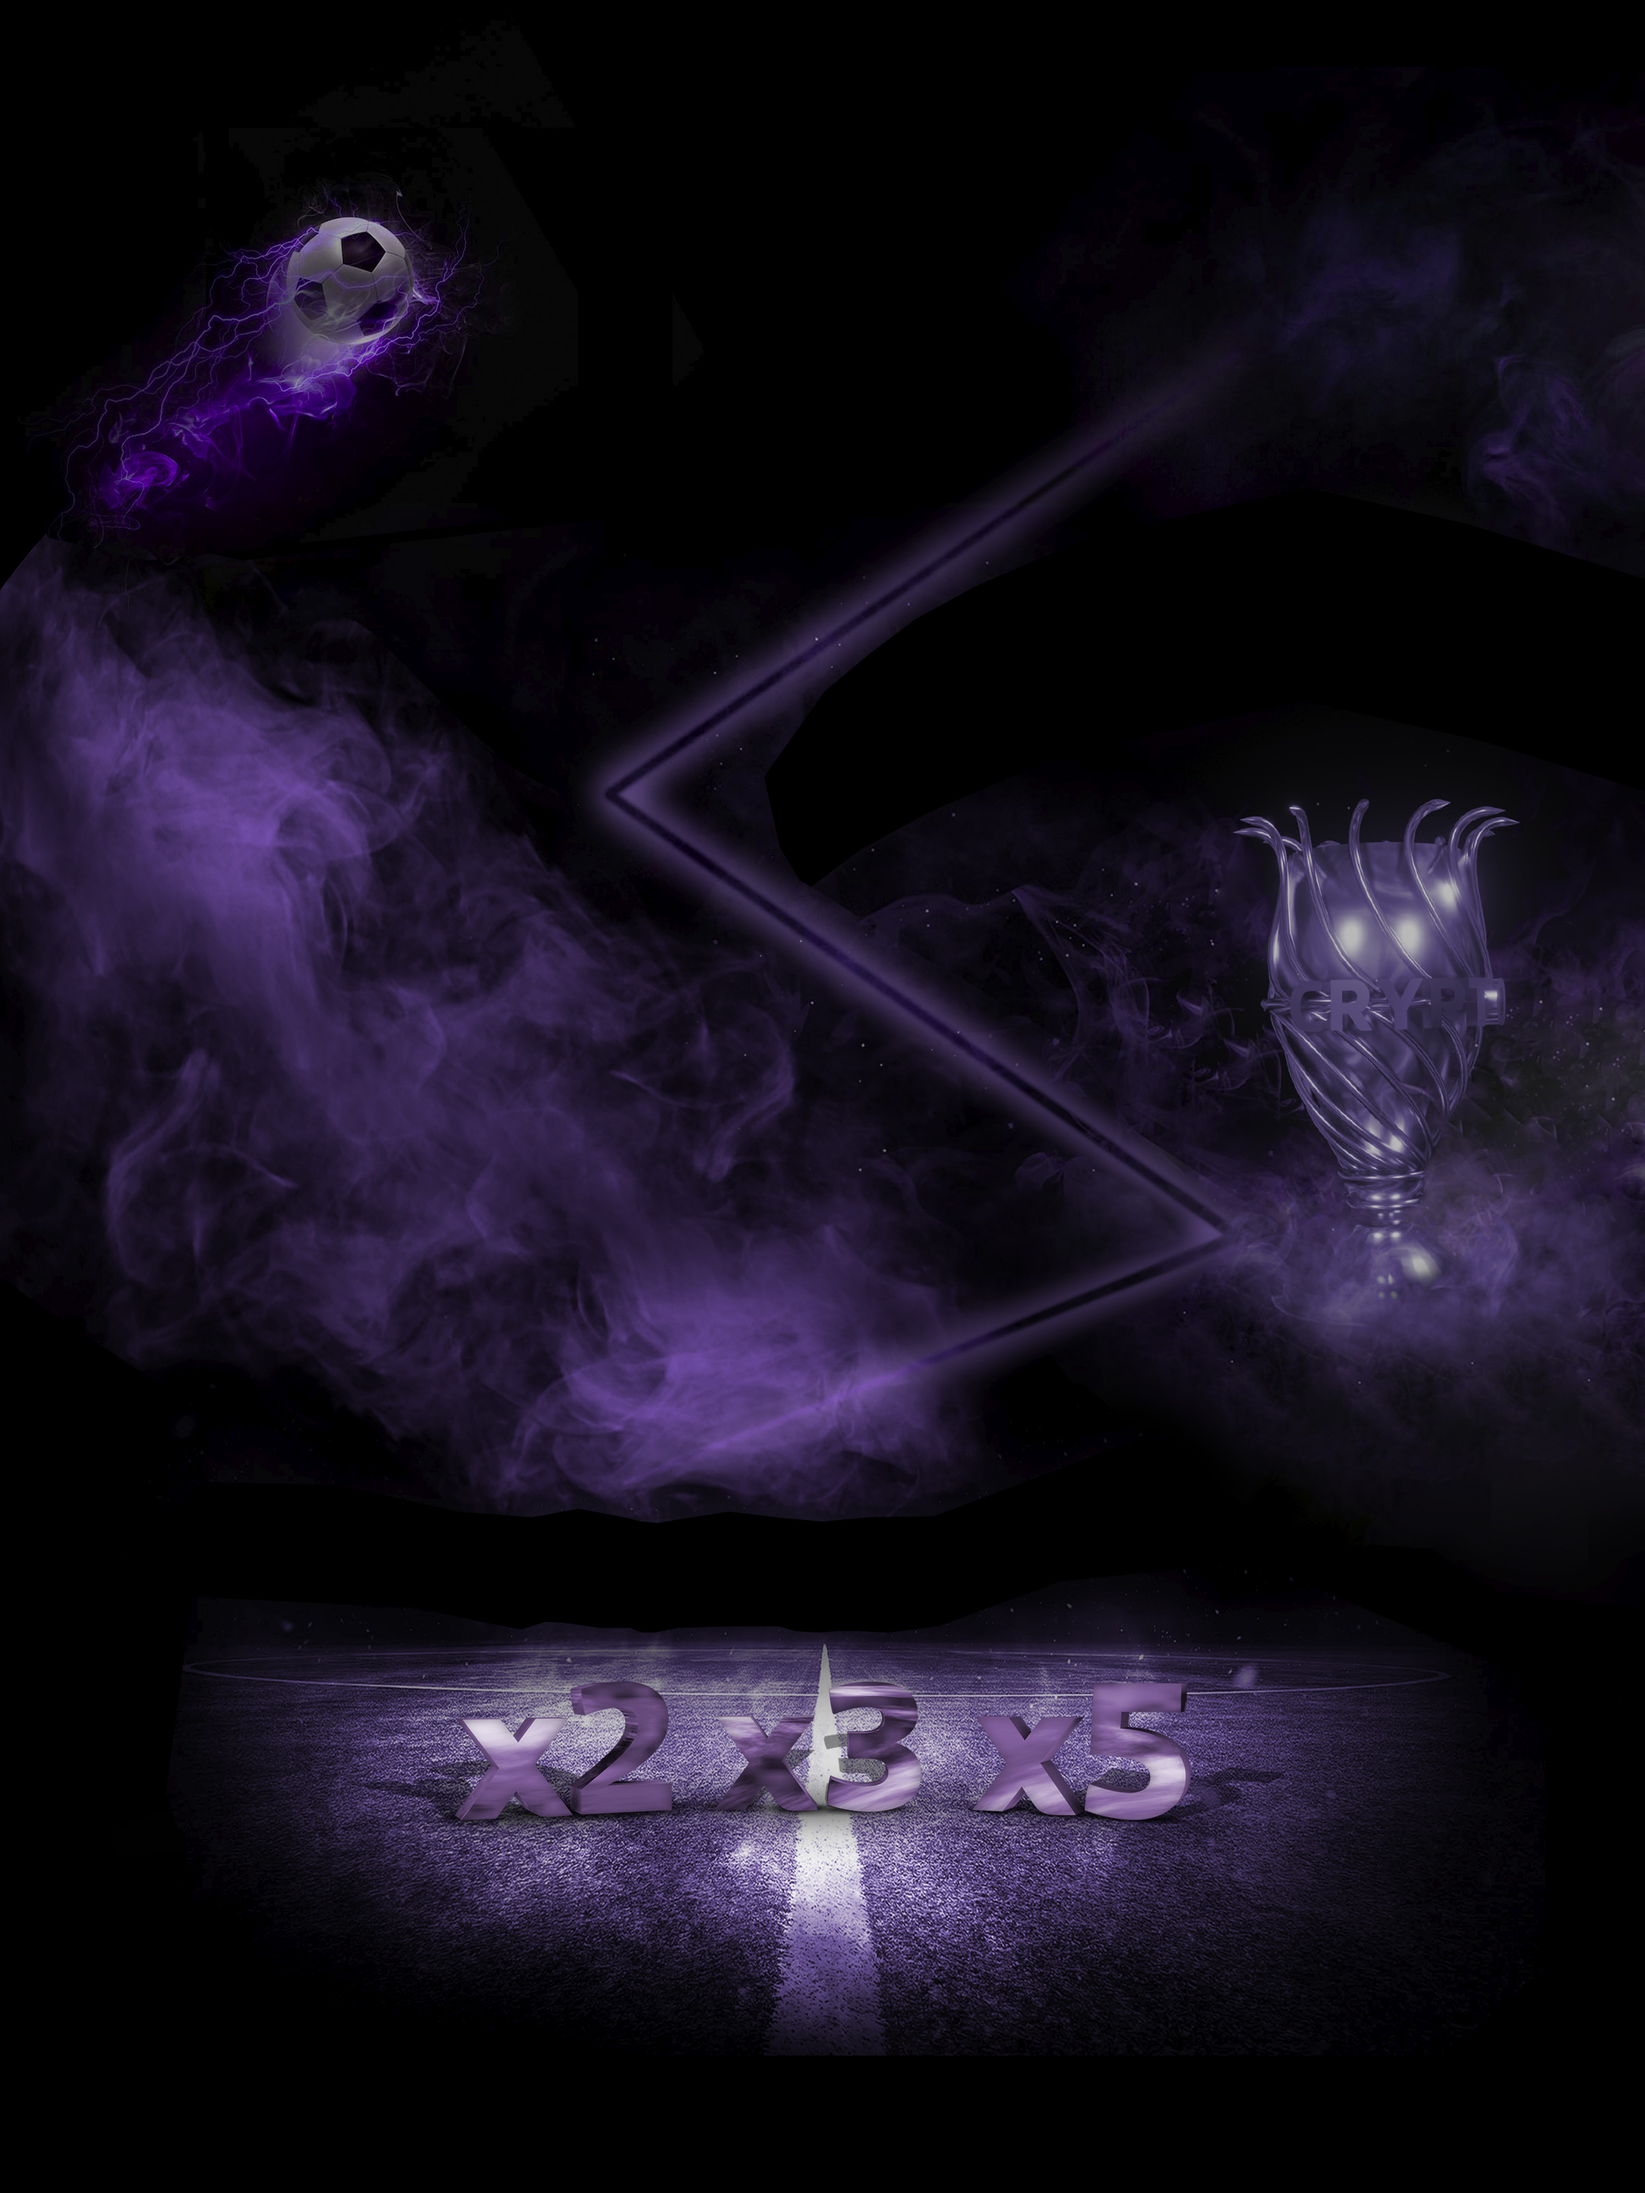
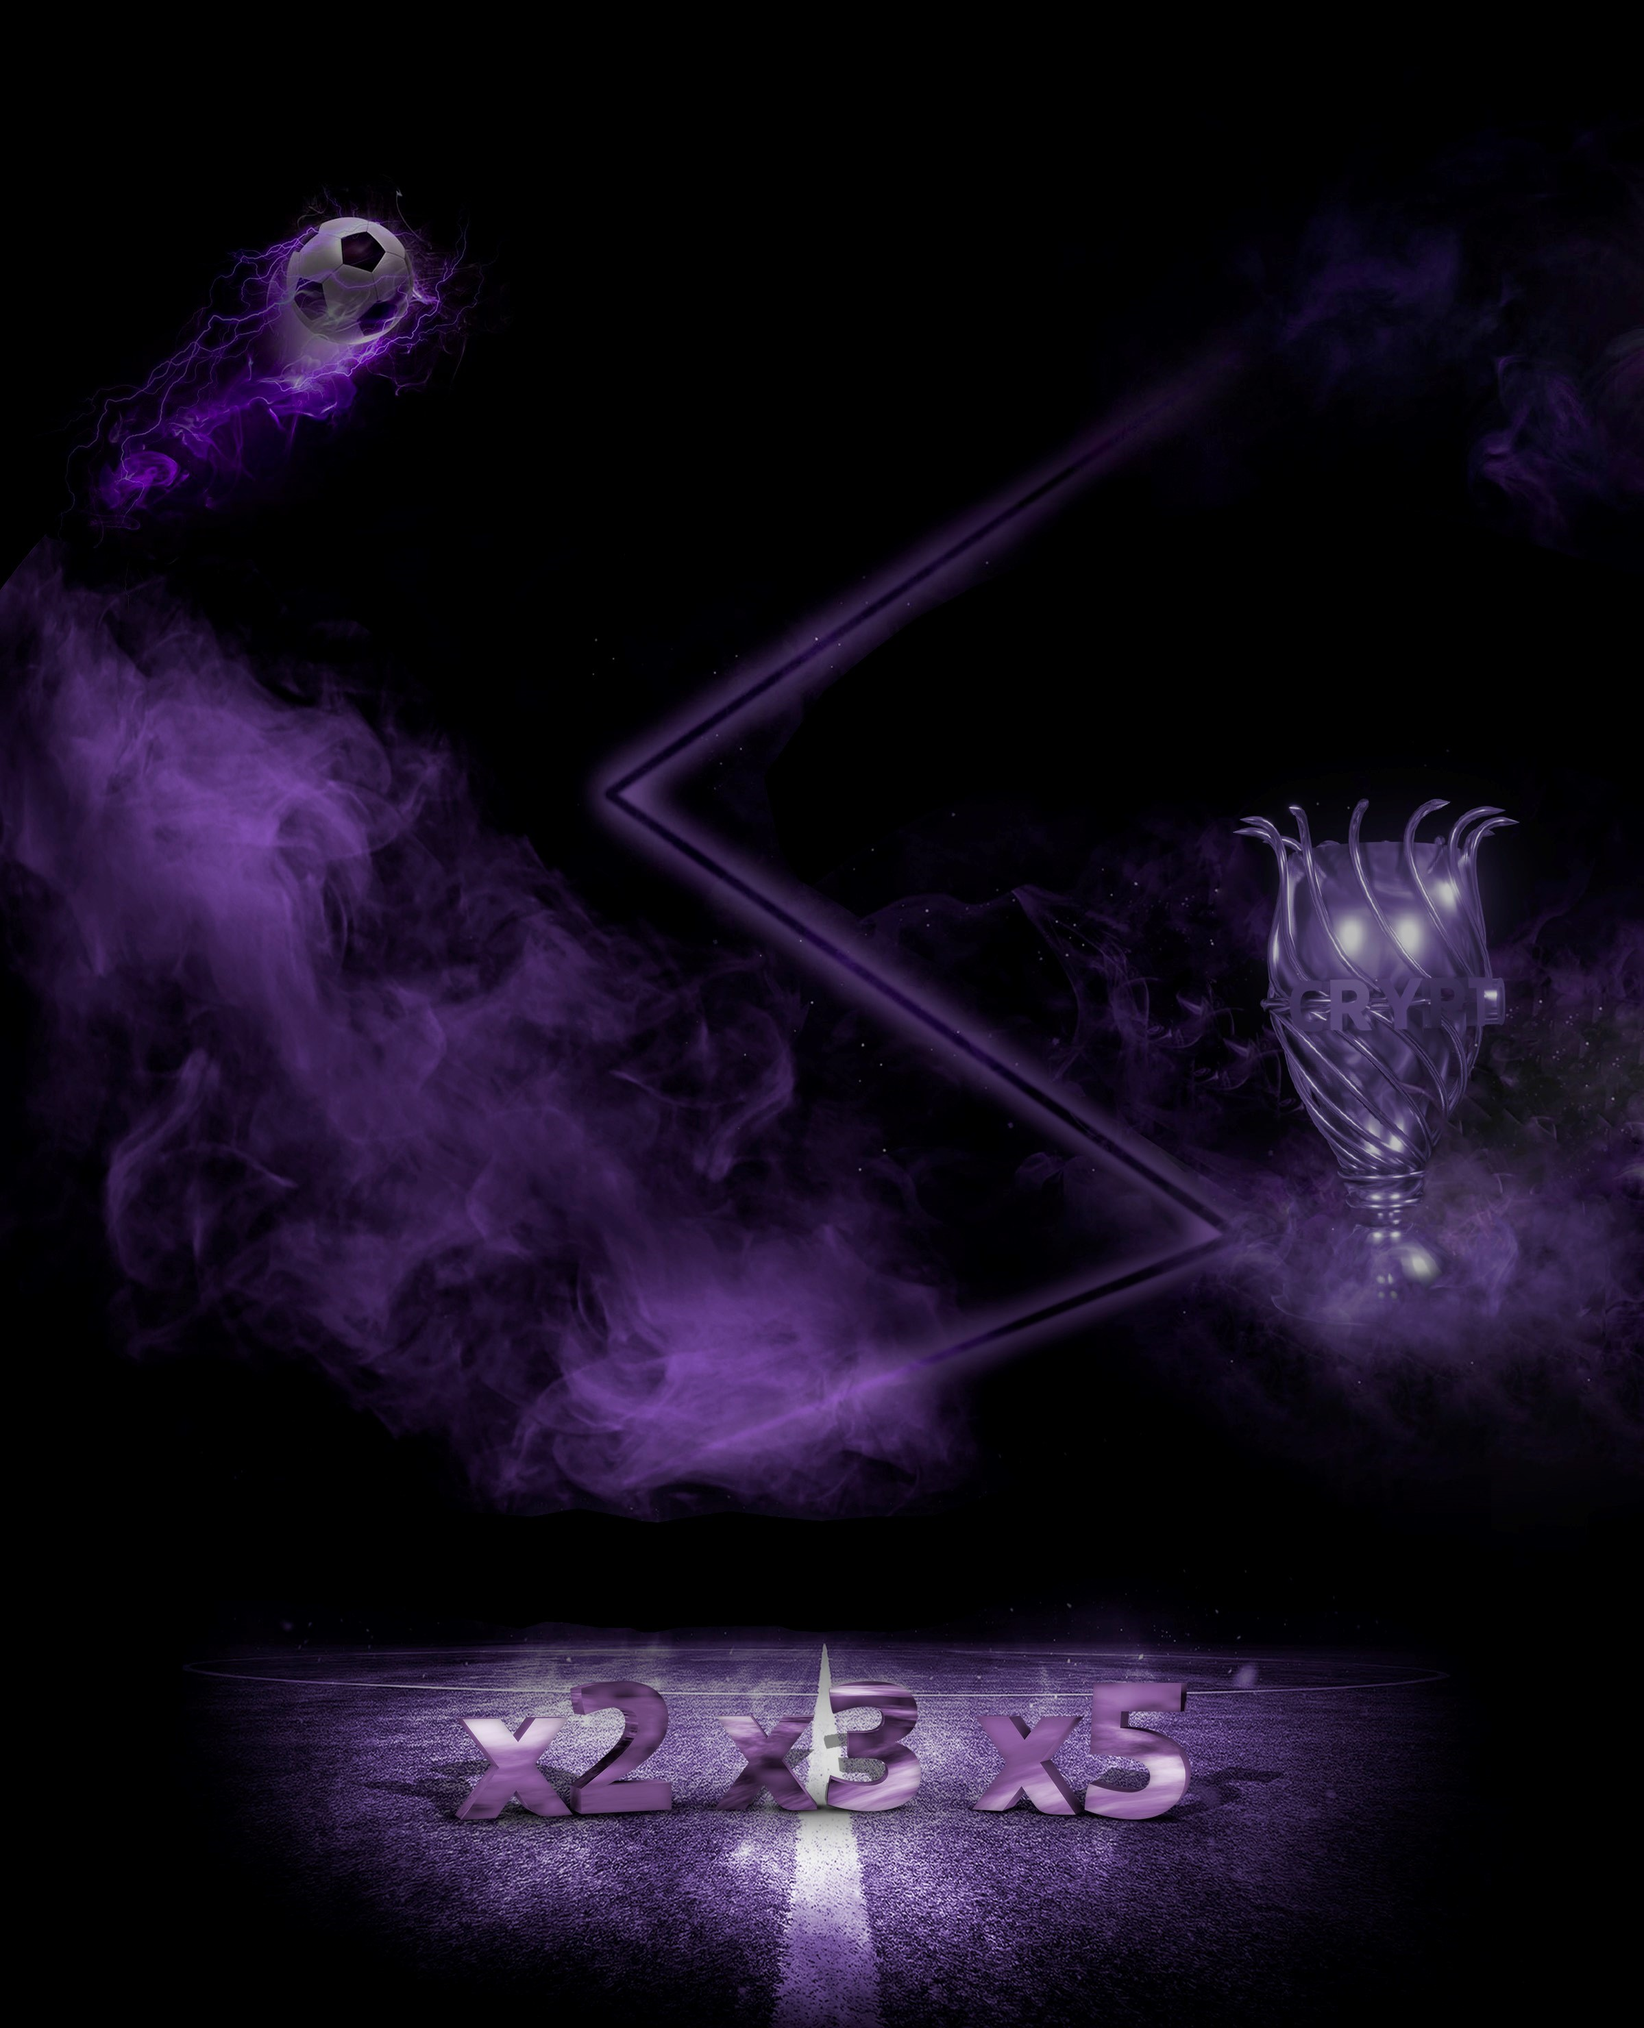
.

diff --git a/src/components/homePrincipal/main/tikets/tiket.css b/src/components/homePrincipal/main/tikets/tiket.css
@@ -13,7 +13,7 @@
 
 .backTikets{
     object-fit: cover;
-    filter: contrast(130%) brightness(115%)  ;
+    filter: contrast(130%) brightness(85%)  ;
     height: 100%;
     width: 100%;
     z-index: -1;
@@ -27,7 +27,7 @@
     bottom: -15rem;
     height: 10rem;
     width: 110%;
-    background-color: rgba(2, 2, 2, 0.637);
+    background-color: rgba(2, 2, 2, 0.192);
     filter: blur(20px);
 }
 
@@ -293,13 +293,13 @@
 
 .division{
     position: absolute;
-    bottom: -70rem;
+    bottom: -90rem;
     z-index: 1000;
 }
 
 .division img{
     object-fit: cover;
-    filter: contrast(40%);
+    filter: contrast(110%) hue-rotate(230deg) brightness(110%) opacity(.8);
 }
 
 @media screen and (min-width: 2550px){
@@ -328,6 +328,18 @@
 }
 
 @media screen and (max-width:1440px){
+
+    .division{
+        position: absolute;
+        bottom: -90rem;
+        z-index: 1000;
+        margin-left: -8rem;
+    }
+    
+    .division img{
+        object-fit: cover;
+        filter: contrast(110%) hue-rotate(230deg) brightness(110%) opacity(.8);
+    }
 
     .boxTickets-Home-basic, .boxTickets-Home-boost {
         gap: 5rem;
@@ -392,12 +404,25 @@
     .boxTickets-Home-basic, .boxTickets-Home-boost {
         margin-left: 0rem;
     }
-
+    .division{
+        margin-left: 0rem;
+    }
 
 }
 
 
 @media screen and (max-width:942px){
+
+    .division{
+        position: absolute;
+        bottom: -30rem;
+        z-index: 1000;
+    }
+
+    .division img{
+        object-fit: cover;
+        filter: contrast(130%) hue-rotate(230deg) brightness(110%) opacity(.8);
+    }
 
     .containerTikets{
         padding-bottom: 5rem;
@@ -429,6 +454,18 @@
     .textTikets{
         width: 100vw;
     }
+
+    .division{
+        position: absolute;
+        bottom: -27rem;
+        z-index: 1000;
+    }
+
+    .division img{
+        object-fit: cover;
+        filter: contrast(130%) hue-rotate(230deg) brightness(110%) opacity(.8);
+    }
+
 
     .boxTickets-Home-basic{
         display: flex;
@@ -472,7 +509,7 @@
         margin-top: 5rem;
         gap: 0rem;
         padding-top: 0rem;
-        padding-bottom: 10rem ;
+        padding-bottom: 20rem ;
         text-align: center;
     }
     
@@ -517,6 +554,17 @@
 
     .titleTicket-home-boost{
         width: 50%;
+    }
+
+    .division{
+        position: absolute;
+        bottom: -19rem;
+        z-index: 1000;
+    }
+
+    .division img{
+        object-fit: cover;
+        filter: contrast(130%) hue-rotate(230deg) brightness(110%) opacity(.8);
     }
 }
 

diff --git a/src/components/homePrincipal/main/token/tokenModel.js b/src/components/homePrincipal/main/token/tokenModel.js
@@ -51,7 +51,7 @@ const tokenModel = () => {
 
 
         /* ------------------------------------------------- */
-
+   
         /* 0xff00ff */
 
             /* lights */
@@ -82,11 +82,13 @@ const tokenModel = () => {
             const hemisphereLight = new THREE.HemisphereLight(0xff0000, 0x0000ff, 1.5)
             scene.add(hemisphereLight)
  */
+      
+
 
             /* camera */
             
         const camera =new THREE.PerspectiveCamera(55, sizes.width / sizes.height, .1, 100)
-            camera.position.z= 4.6
+        camera.position.z= 4.6
         scene.add(camera)
 
 
@@ -98,7 +100,7 @@ const tokenModel = () => {
             (gltf) =>
             {
                 tokenModelDorada= gltf.scene
-                tokenModelDorada.scale.set(1.0, 1.0, 1.0)
+                tokenModelDorada.scale.set(.9, 1.0, 1.0)
                 scene.add(tokenModelDorada)
             }
         )
@@ -112,20 +114,22 @@ const tokenModel = () => {
         controls.enableZoom = false 
         controls.enablePan= false
 
-        controls.minPolarAngle = 1.7;
-        controls.maxPolarAngle = 1.7;
 
 
             
             /* animate  */
 
-        
+        let time = Date.now()
+
         const animate = ()=>{
 
-            camera.rotation.y = 0.01
+            const currentTime = Date.now()
+            const deltaTime = currentTime - time
+            time = currentTime
+
 
             if (tokenModelDorada){
-                tokenModelDorada.rotation.y += 0.006
+                tokenModelDorada.rotation.y += 0.0001 * deltaTime
             } 
 
 

diff --git a/src/components/homePrincipal/main/tikets/TiketsMain.jsx b/src/components/homePrincipal/main/tikets/TiketsMain.jsx
@@ -7,7 +7,7 @@ import tiketsScroll from './tiketsScroll'
 import backReflejo from "./src/BackgroundTickets4.jpg"
 import backReflejoMovile from "./src/NuevoBackgroundTickets.jpg"
 import star from "./src/star.png"
-/* import division from "./src/division.png" */
+import division from "./src/division.png"
 
 
 const TiketsMain = () => {
@@ -75,10 +75,10 @@ const TiketsMain = () => {
               
           </div>
 
-         {/*  <div className="division">
+          <div className="division">
             <img className='divisionImg' src={division} alt="Division container" />
           </div>
- */}
+
         </div>
 
        {tiketClick ? <Navigate to= "/tickets" /> : null } 

diff --git a/src/components/homePrincipal/main/nfts/nfts.css b/src/components/homePrincipal/main/nfts/nfts.css
@@ -6,7 +6,7 @@
     align-items: center;
     flex-direction: column;
     gap: 6rem;
-    padding-top: 15rem ;
+    padding-top: 40rem ;
     background-image: url("./src/BackToken.jpg");
     background-attachment: fixed;
     background-size: cover;
@@ -281,6 +281,12 @@
     }
 }
 
+@media screen and (max-width:942px){
+    .containerNfts{
+        padding-top: 32rem ;
+    }
+    
+}
 
 @media screen and (max-width: 880px){
     .event1 .image {
@@ -374,6 +380,10 @@
 
     .textNfts{
         width: 95%;
+    }
+
+    .containerNfts{
+        padding-top: 10rem ;
     }
     
     .textNfts p{

diff --git a/src/components/homePrincipal/header/nav/modelBall.js b/src/components/homePrincipal/header/nav/modelBall.js
@@ -116,13 +116,16 @@ const navBallModel = () => {
             
             /* animate  */
 
-        
+        let time = Date.now()
+
         const animate = ()=>{
 
-            camera.rotation.y = 0.01
+            const currentTime = Date.now()
+            const deltaTime = currentTime - time
+            time = currentTime
 
             if (modelBall){
-                modelBall.rotation.y += 0.006
+                modelBall.rotation.y += 0.0001 * deltaTime
             } 
 
 
